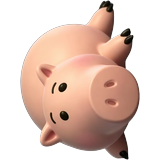
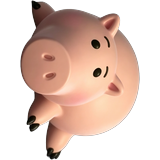
fix: swap wall_cling_left/right rotation direction for ham
Made-with: Cursor

diff --git a/process_ham.py b/process_ham.py
@@ -185,10 +185,10 @@ for i in range(1, 5):
 cling_base  = fit_into_canvas(cling_raw, 160, 160, "center_center")
 save(cling_base, "wall_cling.png")
 
-cling_left  = cling_base.rotate(-90, expand=True).resize((160, 160), Image.LANCZOS)
+cling_left  = cling_base.rotate(90, expand=True).resize((160, 160), Image.LANCZOS)
 save(cling_left, "wall_cling_left.png")
 
-cling_right = cling_base.rotate(90, expand=True).resize((160, 160), Image.LANCZOS)
+cling_right = cling_base.rotate(-90, expand=True).resize((160, 160), Image.LANCZOS)
 save(cling_right, "wall_cling_right.png")
 
 # ── 部署到运行目录 ────────────────────────────────────────────────────────────
